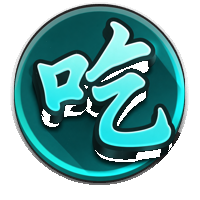
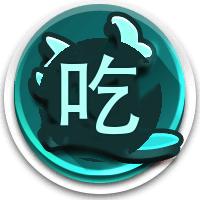
fix(client): redraw clean 吃 button without ghost layers
Rebuild from btn_guo footprint; drop thick 3D glyph and action popIn
overshoot that looked like overlapping sprites.

diff --git a/client/assets/scripts/game/TableLayout.ts b/client/assets/scripts/game/TableLayout.ts
@@ -1,5 +1,5 @@
 import {
-  Node, Label, UITransform, Color, Graphics, Sprite, Button, Layers, Vec3, tween, Tween,
+  Node, Label, UITransform, Color, Graphics, Sprite, Button, Layers, Vec3, tween, Tween, UIOpacity,
 } from 'cc';
 import { loadSpriteFrame, createTileNode, styleLabel, attachBg } from '../comm/ArtBg';
 import { AudioBus } from '../comm/AudioBus';
@@ -553,7 +553,7 @@ export class TableLayout {
     if (ov?.isValid) ov.destroy();
   }
 
-  /** 仅显示你真正能用的操作（统一 popIn 动效） */
+  /** 仅显示你真正能用的操作（避免反复 popIn 造成残影感） */
   setActionButtons(show: boolean, canPeng: boolean, canHu: boolean, canChi = false) {
     const sig = `${show}|${canPeng}|${canHu}|${canChi}`;
     const changed = sig !== this.lastActionSig;
@@ -565,15 +565,16 @@ export class TableLayout {
       { btn: this.btnHu, on: show && canHu },
       { btn: this.btnChi, on: show && canChi },
     ];
-    let delay = 0;
     for (const { btn, on } of items) {
       if (!btn) continue;
       const was = btn.node.active;
       btn.node.active = on;
       if (on && changed && !was) {
-        btn.node.setScale(0.55, 0.55, 1);
-        popIn(btn.node, delay);
-        delay += 0.05;
+        stopNodeTweens(btn.node);
+        btn.node.setScale(1, 1, 1);
+        let op = btn.node.getComponent(UIOpacity);
+        if (!op) op = btn.node.addComponent(UIOpacity);
+        op.opacity = 255;
       }
     }
   }
